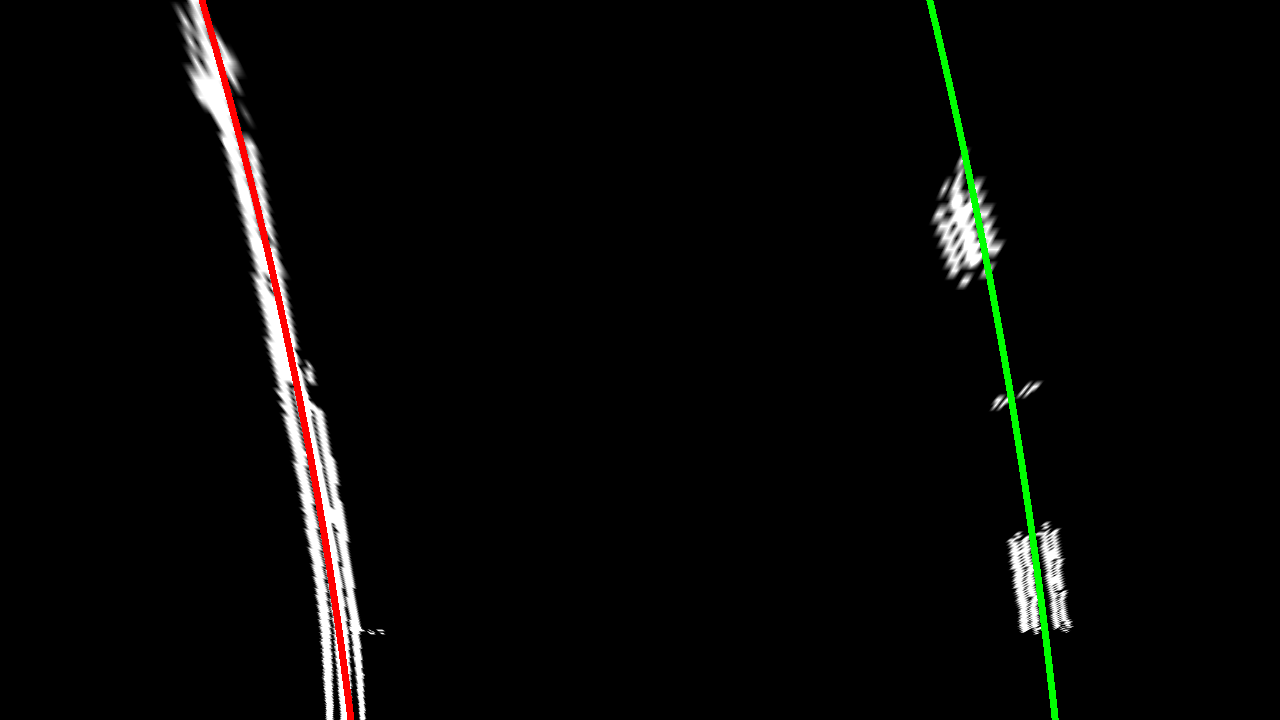
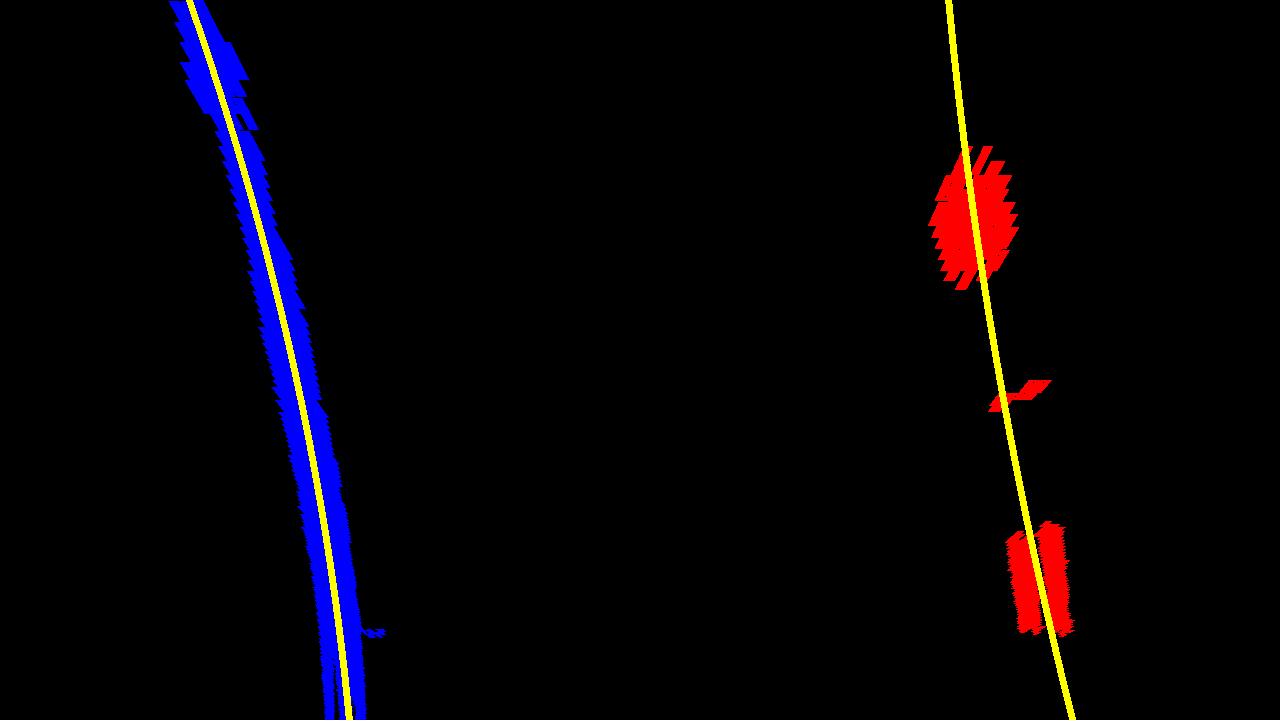
Paint line pixels on detection image

Changed region(s): [[0.125, 0.0, 0.3125, 1.0], [0.7188, 0.0, 0.8438, 1.0]]

diff --git a/advanced_lanes_detection/pipeline.py b/advanced_lanes_detection/pipeline.py
@@ -16,7 +16,7 @@ import os
 img_shape = (720, 1280)
 chessboard_calibrator = ChessboardCalibrator(file_name="calibration.p")
 warper = warp.Warper(img_shape)
-lanes_detector = detector.LanesDetector(img_shape, 100, 5, 50, 2)
+lanes_detector = detector.LanesDetector(img_shape, 250, 5, 50, 3)
 
 frame = 0
 
@@ -49,20 +49,11 @@ def process_image(img):
     concatenated = np.concatenate([left_points, right_points[::-1]])
 
     color_green = (0, 1, 0)
-    color_red = (1.0, 0.0, 0)
+    color_red = (1, 0, 0)
 
     cv2.fillPoly(overlay_img, [concatenated], color_green)
     cv2.polylines(overlay_img, [left_points], False, color_red, thickness=30)
     cv2.polylines(overlay_img, [right_points], False, color_red, thickness=30)
-
-    if frame == 5:
-        debug_img = lanes_detector.merge_queue()
-        debug_img = cv2.cvtColor(debug_img, cv2.COLOR_GRAY2RGB)
-        plt.imsave("out/queue.png", debug_img)
-
-        cv2.polylines(debug_img, [left_points], False, color_red, thickness=5)
-        cv2.polylines(debug_img, [right_points], False, color_green, thickness=5)
-        plt.imsave("out/detected.png", debug_img)
 
     overlay_img = warper.unwarp(overlay_img)
 
@@ -71,19 +62,35 @@ def process_image(img):
     result = img_to_int(result)
 
     if frame == 5:
-        debug_img = lanes_detector.merge_queue()
-
-        debug_img = cv2.cvtColor(debug_img, cv2.COLOR_GRAY2RGB)
-        plt.imsave("out/queue.png", debug_img)
-
-        cv2.polylines(debug_img, [left_points], False, color_red, thickness=5)
-        cv2.polylines(debug_img, [right_points], False, color_green, thickness=5)
-        plt.imsave("out/detected.png", debug_img)
-        plt.imsave("out/final.png", result)
+        save_debug_images(left_line, right_line, result, ploty)
 
     print_overlay_info(left_line, result, right_line)
 
     return result
+
+
+def set_color(img, xs, ys, color):
+    for i in range(len(xs)):
+        x = xs[i]
+        y = ys[i]
+        img[y][x] = color
+
+
+def save_debug_images(left_line, right_line, result, ploty):
+    left_points = left_line.to_cv_points(ploty)
+    right_points = right_line.to_cv_points(ploty)
+
+    debug_img = lanes_detector.merge_queue()
+    debug_img = cv2.cvtColor(debug_img, cv2.COLOR_GRAY2RGB)
+    plt.imsave("out/queue.png", debug_img)
+
+    set_color(debug_img, left_line.xs, left_line.ys, (0, 0, 1))
+    set_color(debug_img, right_line.xs, right_line.ys, (1, 0, 0))
+
+    cv2.polylines(debug_img, [left_points], False, (1, 1, 0), thickness=5)
+    cv2.polylines(debug_img, [right_points], False, (1, 1, 0), thickness=5)
+    plt.imsave("out/detected.png", debug_img)
+    plt.imsave("out/final.png", result)
 
 
 def draw_offset_marker(result, x, y, color):

diff --git a/advanced_lanes_detection/detector.py b/advanced_lanes_detection/detector.py
@@ -4,8 +4,8 @@ import queue
 
 class PolyLine:
     def __init__(self, ys, xs, ym_per_pix=1.0, xm_per_pix=1.0):
-        self.__ys = ys
-        self.__xs = xs
+        self.ys = ys
+        self.xs = xs
         self.__ym_per_pix = ym_per_pix
         self.__xm_per_pix = xm_per_pix
         self.__coeffs = np.polyfit(ys * ym_per_pix, xs * xm_per_pix, 2)
@@ -25,7 +25,7 @@ class PolyLine:
         return nominator / denominator
 
     def scale(self, ym_per_pix, xm_per_px):
-        return PolyLine(self.__ys, self.__xs, ym_per_pix, xm_per_px)
+        return PolyLine(self.ys, self.xs, ym_per_pix, xm_per_px)
 
 
 def all_not_none(*items):
